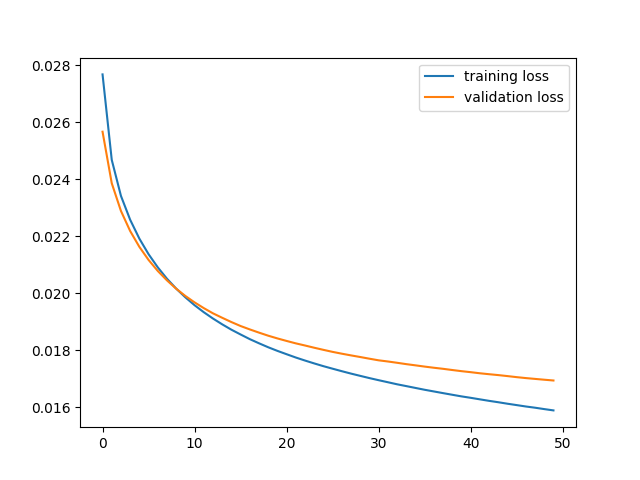
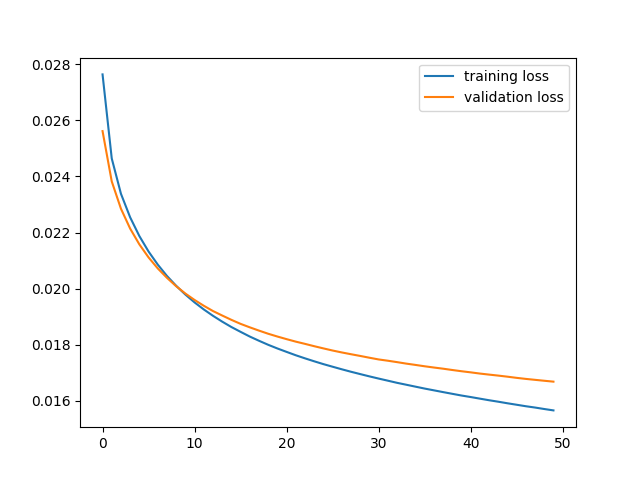
initial commit

diff --git a/loss.py b/loss.py
@@ -1,6 +1,5 @@
 import torch
 
-
 class CELoss:
     """
     Multi-class Cross Entropy Loss
@@ -23,7 +22,7 @@ class CELoss:
         """
 
         ### START CODE HERE ### (≈ 1-2 lines of code)
-        loss = -torch.sum(Y * torch.log_softmax(F, dim=0)) / Y.shape[1]
+        loss = -torch.sum(Y * torch.log_softmax(F, dim=0)) / F.shape[1]
         ### END CODE HERE ###
 
         assert(Y.shape == F.shape)
@@ -40,13 +39,14 @@ class CELoss:
         """
 
         ### START CODE HERE ### (≈ 1 lines of code)
-        dF = (torch.softmax(self.F, dim=0) - self.Y) / self.Y.shape[1]
+        dF = (torch.softmax(self.F, dim=0) - self.Y) / self.F.shape[1]
         ### END CODE HERE ###
 
         return dF
 
 
 def debug():
+
     (D_i, N) = 3, 4
 
     Y = torch.tensor([
@@ -55,7 +55,6 @@ def debug():
         [0, 1, 0, 0],
     ], dtype=torch.float32)
     print('Y =', Y)
-
     F = torch.tensor([
         [-2, 3, 8, -7],
         [10, 2, 8, 4],

diff --git a/relu.py b/relu.py
@@ -20,7 +20,7 @@ class ReLU:
         :return: post-activation
         """
         ### START CODE HERE ### (≈ 1 line of code)
-        H = torch.maximum(F, torch.zeros_like(F))
+        H = torch.max(F, torch.zeros_like(F))
         ###  END CODE HERE  ###
 
         if training:
@@ -38,7 +38,7 @@ class ReLU:
         """
 
         ### START CODE HERE ### (≈ 1 lines of code)
-        dF = dH * (self.F > 0)
+        dF = dH * (self.F > 0).float()
         ### END CODE HERE ###
 
         assert (dF.shape == self.F.shape)

diff --git a/linear.py b/linear.py
@@ -57,9 +57,9 @@ class Linear:
         """
 
         ### START CODE HERE ### (≈ 3 lines of code)
-        dW = torch.matmul(dF, self.H.T)
-        db = torch.sum(dF, dim=1, keepdim=True) / self.H.shape[1]
-        dH = torch.matmul(self.W.T, dF)
+        dW = torch.matmul(dF, self.H.t())
+        db = torch.sum(dF, dim=1, keepdim=True)
+        dH = torch.matmul(self.W.t(), dF)
         ### END CODE HERE ###
 
         self.dW = dW.clone()

diff --git a/main.py b/main.py
@@ -29,7 +29,6 @@ ce_loss = CELoss()
 # Optimizer
 sgd = SGD(nn.layers, learning_rate=0.005)
 
-
 # Training loop
 num_epochs = 50
 train_losses, val_losses = [], []
